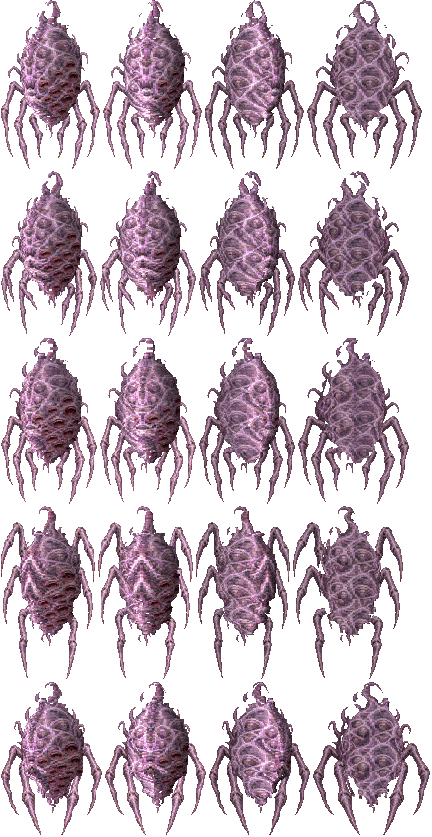
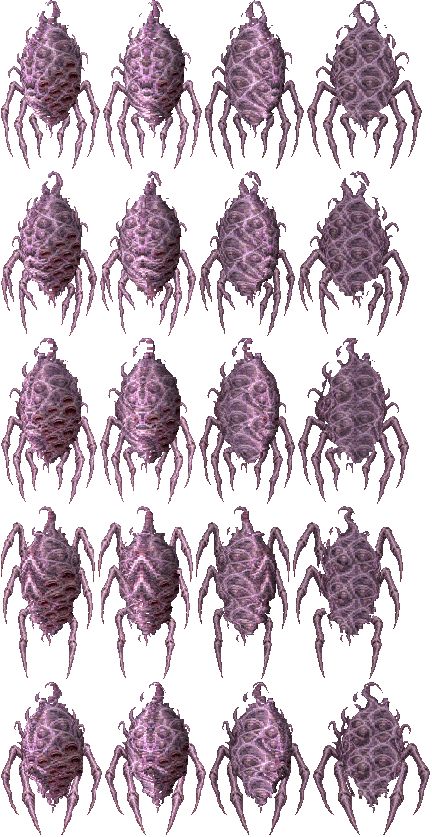
Phase 20 BEASTA: darker backs for five species; creatures.test accepts hand-built species (horn turns, hound head-on at octant 0, empty stand-in cache when every turning species is hand-built); own test measures area and chooser cost
Claude-Session: https://claude.ai/code/session_01TYjZA4Eb84PA9Yndxy475V

diff --git a/js/bestiary20a.js b/js/bestiary20a.js
@@ -34,7 +34,7 @@ const BESTIARY20A = (() => {
   // Cell table written by the bake script: species -> { f: file, v: version,
   // c: { 'view|pose': [x, y, w, h, hs, cx, dy] or 'sprite name' (an existing painting) } }
   // @@ATLAS-BEGIN (generated by tools/art/bestiary/bake20a.js; do not edit by hand)
-  const ATLAS = {"aegis":{"f":"aegis.png","v":"438ad28f","c":{"1|":[0,0,65,160,1,0.49231,0],"2|":[66,0,43,160,1,0.48837,0],"3|":[110,0,67,160,1,0.49254,0],"4|":[178,0,87,160,1,0.49425,0],"1|_w1":[0,161,64,161,1.0063,0.5,0],"2|_w1":[65,161,43,161,1.0063,0.48837,0],"3|_w1":[109,161,64,161,1.0063,0.5,0],"4|_w1":[174,161,85,161,1.0063,0.49412,0],"1|_w2":[0,323,65,162,1.0125,0.50769,0],"2|_w2":[66,323,43,162,1.0125,0.48837,0],"3|_w2":[110,323,65,162,1.0125,0.49231,0],"4|_w2":[176,323,84,162,1.0125,0.4881,0],"1|_a1":[0,486,72,153,0.9563,0.5,0],"2|_a1":[73,486,44,153,0.9563,0.5,0],"3|_a1":[118,486,72,153,0.9563,0.5,0],"4|_a1":[191,486,93,153,0.9563,0.49462,0],"1|_a2":[0,640,57,153,0.9563,0.49123,0],"2|_a2":[58,640,56,153,0.9563,0.375,0],"3|_a2":[115,640,89,153,0.9563,0.32584,0],"4|_a2":[205,640,78,153,0.9563,0.44872,0]}},"briarsprite":{"f":"briarsprite.png","v":"6cc57dea","c":{"0|":[0,0,72,72,1,0.5,0],"1|":[73,0,72,72,1,0.5,0],"2|":[146,0,72,72,1,0.5,0],"3|":[219,0,72,72,1,0.5,0],"4|":[292,0,72,72,1,0.5,0],"0|_w1":[0,73,72,72,1,0.5,0],"1|_w1":[73,73,72,72,1,0.5,0],"2|_w1":[146,73,72,72,1,0.5,0],"3|_w1":[219,73,72,72,1,0.5,0],"4|_w1":[292,73,72,72,1,0.5,0],"0|_w2":[0,146,72,72,1,0.5,0],"1|_w2":[73,146,72,72,1,0.5,0],"2|_w2":[146,146,72,72,1,0.5,0],"3|_w2":[219,146,72,72,1,0.5,0],"4|_w2":[292,146,72,72,1,0.5,0],"0|_a1":[0,219,72,72,1,0.5,0],"1|_a1":[73,219,72,72,1,0.5,0],"2|_a1":[146,219,72,72,1,0.5,0],"3|_a1":[219,219,72,72,1,0.5,0],"4|_a1":[292,219,72,72,1,0.5,0],"0|_a2":[0,292,72,72,1,0.5,0],"1|_a2":[73,292,72,72,1,0.5,0],"2|_a2":[146,292,72,72,1,0.5,0],"3|_a2":[219,292,72,72,1,0.5,0],"4|_a2":[292,292,72,72,1,0.5,0]}},"broodmother":{"f":"broodmother.png","v":"2e0ae28b","c":{"1|":[0,0,101,170,1,0.50495,0],"2|":[102,0,101,170,1,0.51485,0],"3|":[204,0,101,170,1,0.50495,0],"4|":[306,0,117,170,1,0.49573,0],"1|_w1":[0,171,98,166,0.9765,0.52041,0],"2|_w1":[99,171,98,166,0.9765,0.52041,0],"3|_w1":[198,171,98,166,0.9765,0.52041,0],"4|_w1":[297,171,113,166,0.9765,0.50442,0],"1|_w2":[0,338,98,167,0.9824,0.52041,0],"2|_w2":[99,338,98,167,0.9824,0.52041,0],"3|_w2":[198,338,98,167,0.9824,0.52041,0],"4|_w2":[297,338,113,167,0.9824,0.50442,0],"1|_a1":[0,506,96,175,1.0294,0.53125,0],"2|_a1":[97,506,97,175,1.0294,0.53608,0],"3|_a1":[195,506,96,175,1.0294,0.53125,0],"4|_a1":[292,506,112,175,1.0294,0.51786,0],"1|_a2":[0,682,103,154,0.9059,0.51456,0],"2|_a2":[104,682,103,154,0.9059,0.52427,0],"3|_a2":[208,682,103,154,0.9059,0.51456,0],"4|_a2":[312,682,119,154,0.9059,0.5042,0]}},"captain":{"f":"captain.png","v":"1a0d1cb0","c":{"1|":[0,0,75,165,1,0.42667,0],"2|":[76,0,55,165,1,0.38182,0],"3|":[132,0,66,165,1,0.42424,0],"4|":[199,0,84,165,1,0.47619,0],"1|_w1":[0,166,76,163,0.9879,0.43421,0],"2|_w1":[77,166,54,163,0.9879,0.48148,0],"3|_w1":[132,166,67,163,0.9879,0.44776,0],"4|_w1":[200,166,92,163,0.9879,0.53261,0],"1|_w2":[0,330,73,163,0.9879,0.41096,0],"2|_w2":[74,330,48,163,0.9879,0.41667,0],"3|_w2":[123,330,68,163,0.9879,0.45588,0],"4|_w2":[192,330,92,163,0.9879,0.54348,0],"1|_a1":[0,494,78,177,1.0727,0.46154,0],"2|_a1":[79,494,51,177,1.0727,0.41176,0],"3|_a1":[131,494,91,177,1.0727,0.38462,0],"4|_a1":[223,494,124,177,1.0727,0.37097,0],"1|_a2":[0,672,81,149,0.903,0.41975,0],"2|_a2":[82,672,67,149,0.903,0.29851,0],"3|_a2":[150,672,81,149,0.903,0.37037,0],"4|_a2":[232,672,103,149,0.903,0.45631,0]}},"deacon":{"f":"deacon.png","v":"9adb78ca","c":{"1|":[0,0,47,170,1,0.48936,0],"2|":[48,0,36,170,1,0.5,0],"3|":[85,0,49,170,1,0.4898,0],"4|":[135,0,61,170,1,0.5082,0],"1|_w1":[0,171,50,170,1,0.48,0],"2|_w1":[51,171,38,170,1,0.55263,0],"3|_w1":[90,171,50,170,1,0.52,0],"4|_w1":[141,171,62,170,1,0.53226,0],"1|_w2":[0,342,52,170,1,0.48077,0],"2|_w2":[53,342,38,170,1,0.44737,0],"3|_w2":[92,342,50,170,1,0.54,0],"4|_w2":[143,342,65,170,1,0.55385,0],"1|_a1":[0,513,48,187,1.1,0.5,0],"2|_a1":[49,513,36,187,1.1,0.5,0],"3|_a1":[86,513,48,187,1.1,0.5,0],"4|_a1":[135,513,61,187,1.1,0.5082,0],"1|_a2":[0,701,48,153,0.9,0.52083,0],"2|_a2":[49,701,45,153,0.9,0.42222,0],"3|_a2":[95,701,48,153,0.9,0.47917,0],"4|_a2":[144,701,61,153,0.9,0.4918,0]}},"dirge":{"f":"dirge.png","v":"f866b2da","c":{"1|":[0,0,51,150,1,0.4902,0],"2|":[52,0,31,150,1,0.48387,0],"3|":[84,0,51,150,1,0.5098,0],"4|":[136,0,68,150,1,0.5,0],"1|_w1":[0,151,59,146,0.9733,0.52542,-0.0267],"2|_w1":[60,151,33,146,0.9733,0.51515,-0.0267],"3|_w1":[94,151,59,146,0.9733,0.47458,-0.0267],"4|_w1":[154,151,79,146,0.9733,0.4557,-0.0267],"1|_w2":[0,298,60,149,0.9933,0.4,-0.0067],"2|_w2":[61,298,32,149,0.9933,0.46875,-0.0067],"3|_w2":[94,298,60,149,0.9933,0.6,-0.0067],"4|_w2":[155,298,80,149,0.9933,0.625,-0.0067],"1|_a1":[0,448,65,153,1.02,0.41538,0.02],"2|_a1":[66,448,34,153,1.02,0.47059,0.02],"3|_a1":[101,448,65,153,1.02,0.58462,0.02],"4|_a1":[167,448,88,153,1.02,0.59091,0.02],"1|_a2":[0,602,61,145,0.9667,0.52459,-0.0333],"2|_a2":[62,602,33,145,0.9667,0.51515,-0.0333],"3|_a2":[96,602,61,145,0.9667,0.47541,-0.0333],"4|_a2":[158,602,83,145,0.9667,0.48193,-0.0333]}},"drowned":{"f":"drowned.png","v":"fef2ef19","c":{"1|":[0,0,78,160,1,0.30769,0],"2|":[79,0,57,160,1,0.26316,0],"3|":[137,0,83,160,1,0.3494,0],"4|":[221,0,100,160,1,0.55,0],"1|_w1":[0,161,54,150,0.9375,0.51852,0],"2|_w1":[55,161,30,150,0.9375,0.5,0],"3|_w1":[86,161,54,150,0.9375,0.48148,0],"4|_w1":[141,161,74,150,0.9375,0.48649,0],"1|_w2":[0,312,54,148,0.925,0.53704,0],"2|_w2":[55,312,30,148,0.925,0.5,0],"3|_w2":[86,312,54,148,0.925,0.46296,0],"4|_w2":[141,312,72,148,0.925,0.45833,0],"1|_a1":[0,461,69,169,1.0562,0.43478,0],"2|_a1":[70,461,52,169,1.0562,0.40385,0],"3|_a1":[123,461,71,169,1.0562,0.4507,0],"4|_a1":[195,461,83,169,1.0562,0.51807,0],"1|_a2":[0,631,83,144,0.9,0.36145,0],"2|_a2":[84,631,59,144,0.9,0.25424,0],"3|_a2":[144,631,79,144,0.9,0.36709,0],"4|_a2":[224,631,92,144,0.9,0.55435,0]}},"fretcrawler":{"f":"fretcrawler.png","v":"dbf93f13","c":{"0|":[0,0,144,72,1,0.5,0],"1|":[145,0,144,72,1,0.5,0],"2|":[290,0,144,72,1,0.5,0],"3|":[435,0,144,72,1,0.5,0],"4|":[580,0,144,72,1,0.5,0],"0|_w1":[0,73,144,72,1,0.5,0],"1|_w1":[145,73,144,72,1,0.5,0],"2|_w1":[290,73,144,72,1,0.5,0],"3|_w1":[435,73,144,72,1,0.5,0],"4|_w1":[580,73,144,72,1,0.5,0],"0|_w2":[0,146,144,72,1,0.5,0],"1|_w2":[145,146,144,72,1,0.5,0],"2|_w2":[290,146,144,72,1,0.5,0],"3|_w2":[435,146,144,72,1,0.5,0],"4|_w2":[580,146,144,72,1,0.5,0],"0|_a1":[0,219,144,72,1,0.5,0],"1|_a1":[145,219,144,72,1,0.5,0],"2|_a1":[290,219,144,72,1,0.5,0],"3|_a1":[435,219,144,72,1,0.5,0],"4|_a1":[580,219,144,72,1,0.5,0],"0|_a2":[0,292,144,72,1,0.5,0],"1|_a2":[145,292,144,72,1,0.5,0],"2|_a2":[290,292,144,72,1,0.5,0],"3|_a2":[435,292,144,72,1,0.5,0],"4|_a2":[580,292,144,72,1,0.5,0]}},"golem":{"f":"golem.png","v":"4f0f733b","c":{"1|":[0,0,68,160,1,0.5,0],"2|":[69,0,40,160,1,0.5,0],"3|":[110,0,68,160,1,0.5,0],"4|":[179,0,87,160,1,0.50575,0],"1|_w1":[0,161,70,162,1.0125,0.5,0],"2|_w1":[71,161,40,162,1.0125,0.5,0],"3|_w1":[112,161,70,162,1.0125,0.5,0],"4|_w1":[183,161,89,162,1.0125,0.50562,0],"1|_w2":[0,324,69,163,1.0188,0.50725,0],"2|_w2":[70,324,43,163,1.0188,0.48837,0],"3|_w2":[114,324,69,163,1.0188,0.49275,0],"4|_w2":[184,324,88,163,1.0188,0.5,0],"1|_a1":[0,488,69,174,1.0875,0.56522,0],"2|_a1":[70,488,48,174,1.0875,0.58333,0],"3|_a1":[119,488,67,174,1.0875,0.44776,0],"4|_a1":[187,488,86,174,1.0875,0.44186,0],"1|_a2":[0,663,78,144,0.9,0.58974,0],"2|_a2":[79,663,75,144,0.9,0.46667,0],"3|_a2":[155,663,94,144,0.9,0.34043,0],"4|_a2":[250,663,97,144,0.9,0.42268,0]}},"horn":{"f":"horn.png","v":"3d97f8cd","c":{"1|":[0,0,51,120,1,0.43137,0],"2|":[52,0,44,120,1,0.5,0],"3|":[97,0,63,120,1,0.46032,0],"4|":[161,0,69,120,1,0.57971,0],"1|_w1":[0,121,59,118,0.9833,0.55932,0],"2|_w1":[60,121,44,118,0.9833,0.5,0],"3|_w1":[105,121,60,118,0.9833,0.43333,0],"4|_w1":[166,121,69,118,0.9833,0.50725,0],"1|_w2":[0,240,48,118,0.9833,0.45833,0],"2|_w2":[49,240,44,118,0.9833,0.5,0],"3|_w2":[94,240,48,118,0.9833,0.54167,0],"4|_w2":[143,240,63,118,0.9833,0.55556,0],"1|_a1":[0,359,58,120,1,0.41379,0],"2|_a1":[59,359,52,120,1,0.34615,0],"3|_a1":[112,359,50,120,1,0.56,0],"4|_a1":[163,359,66,120,1,0.56061,0],"1|_a2":[0,480,58,119,0.9917,0.41379,0],"2|_a2":[59,480,52,119,0.9917,0.34615,0],"3|_a2":[112,480,47,119,0.9917,0.53191,0],"4|_a2":[160,480,62,119,0.9917,0.53226,0]}},"hound":{"f":"hound.png","v":"000d9fbc","c":{"1|":[0,0,158,160,1,0.5443,0],"2|":[159,0,209,160,1,0.54067,0],"3|":[369,0,158,160,1,0.5443,0],"4|":[528,0,104,160,1,0.5,0],"1|_w1":[0,161,162,144,0.9,0.53704,0],"2|_w1":[163,161,210,144,0.9,0.5381,0],"3|_w1":[374,161,162,144,0.9,0.53704,0],"4|_w1":[537,161,104,144,0.9,0.5,0],"1|_w2":[0,306,130,153,0.9563,0.55385,0],"2|_w2":[131,306,177,153,0.9563,0.54237,0],"3|_w2":[309,306,130,153,0.9563,0.55385,0],"4|_w2":[440,306,104,153,0.9563,0.49997,0],"1|_a1":[0,460,139,161,1.0063,0.56115,0],"2|_a1":[140,460,178,161,1.0063,0.5618,0],"3|_a1":[319,460,139,161,1.0063,0.56115,0],"4|_a1":[459,460,104,161,1.0063,0.49998,0],"1|_a2":[0,622,133,198,1.2375,0.54135,0],"2|_a2":[134,622,170,198,1.2375,0.56471,0],"3|_a2":[305,622,132,198,1.2375,0.54545,0],"4|_a2":[438,622,104,198,1.2375,0.5,0],"0|":"hound_a2","0|_w1":"hound_a2","0|_w2":"hound_a2","0|_a1":"hound_a2","0|_a2":"hound_a2"}},"hushwarden":{"f":"hushwarden.png","v":"5ed622dd","c":{"1|":[0,0,64,165,1,0.42188,0],"2|":[65,0,46,165,1,0.43478,0],"3|":[112,0,54,165,1,0.5,0],"4|":[167,0,72,165,1,0.52778,0],"1|_w1":[0,166,61,166,1.0061,0.42623,0],"2|_w1":[62,166,50,166,1.0061,0.48,0],"3|_w1":[113,166,56,166,1.0061,0.53571,0],"4|_w1":[170,166,73,166,1.0061,0.53425,0],"1|_w2":[0,333,60,166,1.0061,0.43333,0],"2|_w2":[61,333,44,166,1.0061,0.43182,0],"3|_w2":[106,333,54,166,1.0061,0.51852,0],"4|_w2":[161,333,71,166,1.0061,0.52113,0],"1|_a1":[0,500,63,200,1.2121,0.49206,0],"2|_a1":[64,500,41,200,1.2121,0.4878,0],"3|_a1":[106,500,63,200,1.2121,0.50794,0],"4|_a1":[170,500,81,200,1.2121,0.50617,0],"1|_a2":[0,701,64,148,0.897,0.48438,0],"2|_a2":[65,701,55,148,0.897,0.38182,0],"3|_a2":[121,701,64,148,0.897,0.51563,0],"4|_a2":[186,701,87,148,0.897,0.51724,0]}}};
+  const ATLAS = {"aegis":{"f":"aegis.png","v":"438ad28f","c":{"1|":[0,0,65,160,1,0.49231,0],"2|":[66,0,43,160,1,0.48837,0],"3|":[110,0,67,160,1,0.49254,0],"4|":[178,0,87,160,1,0.49425,0],"1|_w1":[0,161,64,161,1.0063,0.5,0],"2|_w1":[65,161,43,161,1.0063,0.48837,0],"3|_w1":[109,161,64,161,1.0063,0.5,0],"4|_w1":[174,161,85,161,1.0063,0.49412,0],"1|_w2":[0,323,65,162,1.0125,0.50769,0],"2|_w2":[66,323,43,162,1.0125,0.48837,0],"3|_w2":[110,323,65,162,1.0125,0.49231,0],"4|_w2":[176,323,84,162,1.0125,0.4881,0],"1|_a1":[0,486,72,153,0.9563,0.5,0],"2|_a1":[73,486,44,153,0.9563,0.5,0],"3|_a1":[118,486,72,153,0.9563,0.5,0],"4|_a1":[191,486,93,153,0.9563,0.49462,0],"1|_a2":[0,640,57,153,0.9563,0.49123,0],"2|_a2":[58,640,56,153,0.9563,0.375,0],"3|_a2":[115,640,89,153,0.9563,0.32584,0],"4|_a2":[205,640,78,153,0.9563,0.44872,0]}},"briarsprite":{"f":"briarsprite.png","v":"b514438e","c":{"0|":[0,0,72,72,1,0.5,0],"1|":[73,0,72,72,1,0.5,0],"2|":[146,0,72,72,1,0.5,0],"3|":[219,0,72,72,1,0.5,0],"4|":[292,0,72,72,1,0.5,0],"0|_w1":[0,73,72,72,1,0.5,0],"1|_w1":[73,73,72,72,1,0.5,0],"2|_w1":[146,73,72,72,1,0.5,0],"3|_w1":[219,73,72,72,1,0.5,0],"4|_w1":[292,73,72,72,1,0.5,0],"0|_w2":[0,146,72,72,1,0.5,0],"1|_w2":[73,146,72,72,1,0.5,0],"2|_w2":[146,146,72,72,1,0.5,0],"3|_w2":[219,146,72,72,1,0.5,0],"4|_w2":[292,146,72,72,1,0.5,0],"0|_a1":[0,219,72,72,1,0.5,0],"1|_a1":[73,219,72,72,1,0.5,0],"2|_a1":[146,219,72,72,1,0.5,0],"3|_a1":[219,219,72,72,1,0.5,0],"4|_a1":[292,219,72,72,1,0.5,0],"0|_a2":[0,292,72,72,1,0.5,0],"1|_a2":[73,292,72,72,1,0.5,0],"2|_a2":[146,292,72,72,1,0.5,0],"3|_a2":[219,292,72,72,1,0.5,0],"4|_a2":[292,292,72,72,1,0.5,0]}},"broodmother":{"f":"broodmother.png","v":"08f64d7f","c":{"1|":[0,0,101,170,1,0.50495,0],"2|":[102,0,101,170,1,0.51485,0],"3|":[204,0,101,170,1,0.50495,0],"4|":[306,0,117,170,1,0.49573,0],"1|_w1":[0,171,98,166,0.9765,0.52041,0],"2|_w1":[99,171,98,166,0.9765,0.52041,0],"3|_w1":[198,171,98,166,0.9765,0.52041,0],"4|_w1":[297,171,113,166,0.9765,0.50442,0],"1|_w2":[0,338,98,167,0.9824,0.52041,0],"2|_w2":[99,338,98,167,0.9824,0.52041,0],"3|_w2":[198,338,98,167,0.9824,0.52041,0],"4|_w2":[297,338,113,167,0.9824,0.50442,0],"1|_a1":[0,506,96,175,1.0294,0.53125,0],"2|_a1":[97,506,97,175,1.0294,0.53608,0],"3|_a1":[195,506,96,175,1.0294,0.53125,0],"4|_a1":[292,506,112,175,1.0294,0.51786,0],"1|_a2":[0,682,103,154,0.9059,0.51456,0],"2|_a2":[104,682,103,154,0.9059,0.52427,0],"3|_a2":[208,682,103,154,0.9059,0.51456,0],"4|_a2":[312,682,119,154,0.9059,0.5042,0]}},"captain":{"f":"captain.png","v":"1a0d1cb0","c":{"1|":[0,0,75,165,1,0.42667,0],"2|":[76,0,55,165,1,0.38182,0],"3|":[132,0,66,165,1,0.42424,0],"4|":[199,0,84,165,1,0.47619,0],"1|_w1":[0,166,76,163,0.9879,0.43421,0],"2|_w1":[77,166,54,163,0.9879,0.48148,0],"3|_w1":[132,166,67,163,0.9879,0.44776,0],"4|_w1":[200,166,92,163,0.9879,0.53261,0],"1|_w2":[0,330,73,163,0.9879,0.41096,0],"2|_w2":[74,330,48,163,0.9879,0.41667,0],"3|_w2":[123,330,68,163,0.9879,0.45588,0],"4|_w2":[192,330,92,163,0.9879,0.54348,0],"1|_a1":[0,494,78,177,1.0727,0.46154,0],"2|_a1":[79,494,51,177,1.0727,0.41176,0],"3|_a1":[131,494,91,177,1.0727,0.38462,0],"4|_a1":[223,494,124,177,1.0727,0.37097,0],"1|_a2":[0,672,81,149,0.903,0.41975,0],"2|_a2":[82,672,67,149,0.903,0.29851,0],"3|_a2":[150,672,81,149,0.903,0.37037,0],"4|_a2":[232,672,103,149,0.903,0.45631,0]}},"deacon":{"f":"deacon.png","v":"54be0af4","c":{"1|":[0,0,47,170,1,0.48936,0],"2|":[48,0,36,170,1,0.5,0],"3|":[85,0,49,170,1,0.4898,0],"4|":[135,0,61,170,1,0.5082,0],"1|_w1":[0,171,50,170,1,0.48,0],"2|_w1":[51,171,38,170,1,0.55263,0],"3|_w1":[90,171,50,170,1,0.52,0],"4|_w1":[141,171,62,170,1,0.53226,0],"1|_w2":[0,342,52,170,1,0.48077,0],"2|_w2":[53,342,38,170,1,0.44737,0],"3|_w2":[92,342,50,170,1,0.54,0],"4|_w2":[143,342,65,170,1,0.55385,0],"1|_a1":[0,513,48,187,1.1,0.5,0],"2|_a1":[49,513,36,187,1.1,0.5,0],"3|_a1":[86,513,48,187,1.1,0.5,0],"4|_a1":[135,513,61,187,1.1,0.5082,0],"1|_a2":[0,701,48,153,0.9,0.52083,0],"2|_a2":[49,701,45,153,0.9,0.42222,0],"3|_a2":[95,701,48,153,0.9,0.47917,0],"4|_a2":[144,701,61,153,0.9,0.4918,0]}},"dirge":{"f":"dirge.png","v":"999bcbb9","c":{"1|":[0,0,51,150,1,0.4902,0],"2|":[52,0,31,150,1,0.48387,0],"3|":[84,0,51,150,1,0.5098,0],"4|":[136,0,68,150,1,0.5,0],"1|_w1":[0,151,59,146,0.9733,0.52542,-0.0267],"2|_w1":[60,151,33,146,0.9733,0.51515,-0.0267],"3|_w1":[94,151,59,146,0.9733,0.47458,-0.0267],"4|_w1":[154,151,79,146,0.9733,0.4557,-0.0267],"1|_w2":[0,298,60,149,0.9933,0.4,-0.0067],"2|_w2":[61,298,32,149,0.9933,0.46875,-0.0067],"3|_w2":[94,298,60,149,0.9933,0.6,-0.0067],"4|_w2":[155,298,80,149,0.9933,0.625,-0.0067],"1|_a1":[0,448,65,153,1.02,0.41538,0.02],"2|_a1":[66,448,34,153,1.02,0.47059,0.02],"3|_a1":[101,448,65,153,1.02,0.58462,0.02],"4|_a1":[167,448,88,153,1.02,0.59091,0.02],"1|_a2":[0,602,61,145,0.9667,0.52459,-0.0333],"2|_a2":[62,602,33,145,0.9667,0.51515,-0.0333],"3|_a2":[96,602,61,145,0.9667,0.47541,-0.0333],"4|_a2":[158,602,83,145,0.9667,0.48193,-0.0333]}},"drowned":{"f":"drowned.png","v":"fef2ef19","c":{"1|":[0,0,78,160,1,0.30769,0],"2|":[79,0,57,160,1,0.26316,0],"3|":[137,0,83,160,1,0.3494,0],"4|":[221,0,100,160,1,0.55,0],"1|_w1":[0,161,54,150,0.9375,0.51852,0],"2|_w1":[55,161,30,150,0.9375,0.5,0],"3|_w1":[86,161,54,150,0.9375,0.48148,0],"4|_w1":[141,161,74,150,0.9375,0.48649,0],"1|_w2":[0,312,54,148,0.925,0.53704,0],"2|_w2":[55,312,30,148,0.925,0.5,0],"3|_w2":[86,312,54,148,0.925,0.46296,0],"4|_w2":[141,312,72,148,0.925,0.45833,0],"1|_a1":[0,461,69,169,1.0562,0.43478,0],"2|_a1":[70,461,52,169,1.0562,0.40385,0],"3|_a1":[123,461,71,169,1.0562,0.4507,0],"4|_a1":[195,461,83,169,1.0562,0.51807,0],"1|_a2":[0,631,83,144,0.9,0.36145,0],"2|_a2":[84,631,59,144,0.9,0.25424,0],"3|_a2":[144,631,79,144,0.9,0.36709,0],"4|_a2":[224,631,92,144,0.9,0.55435,0]}},"fretcrawler":{"f":"fretcrawler.png","v":"dbf93f13","c":{"0|":[0,0,144,72,1,0.5,0],"1|":[145,0,144,72,1,0.5,0],"2|":[290,0,144,72,1,0.5,0],"3|":[435,0,144,72,1,0.5,0],"4|":[580,0,144,72,1,0.5,0],"0|_w1":[0,73,144,72,1,0.5,0],"1|_w1":[145,73,144,72,1,0.5,0],"2|_w1":[290,73,144,72,1,0.5,0],"3|_w1":[435,73,144,72,1,0.5,0],"4|_w1":[580,73,144,72,1,0.5,0],"0|_w2":[0,146,144,72,1,0.5,0],"1|_w2":[145,146,144,72,1,0.5,0],"2|_w2":[290,146,144,72,1,0.5,0],"3|_w2":[435,146,144,72,1,0.5,0],"4|_w2":[580,146,144,72,1,0.5,0],"0|_a1":[0,219,144,72,1,0.5,0],"1|_a1":[145,219,144,72,1,0.5,0],"2|_a1":[290,219,144,72,1,0.5,0],"3|_a1":[435,219,144,72,1,0.5,0],"4|_a1":[580,219,144,72,1,0.5,0],"0|_a2":[0,292,144,72,1,0.5,0],"1|_a2":[145,292,144,72,1,0.5,0],"2|_a2":[290,292,144,72,1,0.5,0],"3|_a2":[435,292,144,72,1,0.5,0],"4|_a2":[580,292,144,72,1,0.5,0]}},"golem":{"f":"golem.png","v":"4f0f733b","c":{"1|":[0,0,68,160,1,0.5,0],"2|":[69,0,40,160,1,0.5,0],"3|":[110,0,68,160,1,0.5,0],"4|":[179,0,87,160,1,0.50575,0],"1|_w1":[0,161,70,162,1.0125,0.5,0],"2|_w1":[71,161,40,162,1.0125,0.5,0],"3|_w1":[112,161,70,162,1.0125,0.5,0],"4|_w1":[183,161,89,162,1.0125,0.50562,0],"1|_w2":[0,324,69,163,1.0188,0.50725,0],"2|_w2":[70,324,43,163,1.0188,0.48837,0],"3|_w2":[114,324,69,163,1.0188,0.49275,0],"4|_w2":[184,324,88,163,1.0188,0.5,0],"1|_a1":[0,488,69,174,1.0875,0.56522,0],"2|_a1":[70,488,48,174,1.0875,0.58333,0],"3|_a1":[119,488,67,174,1.0875,0.44776,0],"4|_a1":[187,488,86,174,1.0875,0.44186,0],"1|_a2":[0,663,78,144,0.9,0.58974,0],"2|_a2":[79,663,75,144,0.9,0.46667,0],"3|_a2":[155,663,94,144,0.9,0.34043,0],"4|_a2":[250,663,97,144,0.9,0.42268,0]}},"horn":{"f":"horn.png","v":"3d97f8cd","c":{"1|":[0,0,51,120,1,0.43137,0],"2|":[52,0,44,120,1,0.5,0],"3|":[97,0,63,120,1,0.46032,0],"4|":[161,0,69,120,1,0.57971,0],"1|_w1":[0,121,59,118,0.9833,0.55932,0],"2|_w1":[60,121,44,118,0.9833,0.5,0],"3|_w1":[105,121,60,118,0.9833,0.43333,0],"4|_w1":[166,121,69,118,0.9833,0.50725,0],"1|_w2":[0,240,48,118,0.9833,0.45833,0],"2|_w2":[49,240,44,118,0.9833,0.5,0],"3|_w2":[94,240,48,118,0.9833,0.54167,0],"4|_w2":[143,240,63,118,0.9833,0.55556,0],"1|_a1":[0,359,58,120,1,0.41379,0],"2|_a1":[59,359,52,120,1,0.34615,0],"3|_a1":[112,359,50,120,1,0.56,0],"4|_a1":[163,359,66,120,1,0.56061,0],"1|_a2":[0,480,58,119,0.9917,0.41379,0],"2|_a2":[59,480,52,119,0.9917,0.34615,0],"3|_a2":[112,480,47,119,0.9917,0.53191,0],"4|_a2":[160,480,62,119,0.9917,0.53226,0]}},"hound":{"f":"hound.png","v":"5f6a7692","c":{"1|":[0,0,158,160,1,0.5443,0],"2|":[159,0,209,160,1,0.54067,0],"3|":[369,0,158,160,1,0.5443,0],"4|":[528,0,104,160,1,0.5,0],"1|_w1":[0,161,162,144,0.9,0.53704,0],"2|_w1":[163,161,210,144,0.9,0.5381,0],"3|_w1":[374,161,162,144,0.9,0.53704,0],"4|_w1":[537,161,104,144,0.9,0.5,0],"1|_w2":[0,306,130,153,0.9563,0.55385,0],"2|_w2":[131,306,177,153,0.9563,0.54237,0],"3|_w2":[309,306,130,153,0.9563,0.55385,0],"4|_w2":[440,306,104,153,0.9563,0.49997,0],"1|_a1":[0,460,139,161,1.0063,0.56115,0],"2|_a1":[140,460,178,161,1.0063,0.5618,0],"3|_a1":[319,460,139,161,1.0063,0.56115,0],"4|_a1":[459,460,104,161,1.0063,0.49998,0],"1|_a2":[0,622,133,198,1.2375,0.54135,0],"2|_a2":[134,622,170,198,1.2375,0.56471,0],"3|_a2":[305,622,132,198,1.2375,0.54545,0],"4|_a2":[438,622,104,198,1.2375,0.5,0],"0|":"hound_a2","0|_w1":"hound_a2","0|_w2":"hound_a2","0|_a1":"hound_a2","0|_a2":"hound_a2"}},"hushwarden":{"f":"hushwarden.png","v":"5ed622dd","c":{"1|":[0,0,64,165,1,0.42188,0],"2|":[65,0,46,165,1,0.43478,0],"3|":[112,0,54,165,1,0.5,0],"4|":[167,0,72,165,1,0.52778,0],"1|_w1":[0,166,61,166,1.0061,0.42623,0],"2|_w1":[62,166,50,166,1.0061,0.48,0],"3|_w1":[113,166,56,166,1.0061,0.53571,0],"4|_w1":[170,166,73,166,1.0061,0.53425,0],"1|_w2":[0,333,60,166,1.0061,0.43333,0],"2|_w2":[61,333,44,166,1.0061,0.43182,0],"3|_w2":[106,333,54,166,1.0061,0.51852,0],"4|_w2":[161,333,71,166,1.0061,0.52113,0],"1|_a1":[0,500,63,200,1.2121,0.49206,0],"2|_a1":[64,500,41,200,1.2121,0.4878,0],"3|_a1":[106,500,63,200,1.2121,0.50794,0],"4|_a1":[170,500,81,200,1.2121,0.50617,0],"1|_a2":[0,701,64,148,0.897,0.48438,0],"2|_a2":[65,701,55,148,0.897,0.38182,0],"3|_a2":[121,701,64,148,0.897,0.51563,0],"4|_a2":[186,701,87,148,0.897,0.51724,0]}}};
   // @@ATLAS-END
   const atl = {};                              // species -> { data, w, h, state }
   const cache = new Map();                     // 'name|view|pose' -> { sprite, used, bytes }

diff --git a/test/bestiary20a.test.js b/test/bestiary20a.test.js
@@ -160,13 +160,24 @@ const SIDE_ON = ['briarsprite', 'fretcrawler', 'hound'];
       GFX.p20_beastA = false; for (let i = 0; i < 10; i++) Engine.render(G.ents, G.tod); GFX.p20_beastA = true;
       let on = 1e9, off = 1e9;
       for (let r = 0; r < 12; r++) { on = Math.min(on, burst()); GFX.p20_beastA = false; off = Math.min(off, burst()); GFX.p20_beastA = true; }
-      return { on: +on.toFixed(2), off: +off.toFixed(2), n: added.length };
+      // how much screen the creatures cover each way (a head-on hound is a bigger shape than its flank seen end-on)
+      const area = () => { Engine.render(G.ents, G.tod); let a = 0; for (const e of added) if (e._screen) a += (e._screen.x1 - e._screen.x0) * (e._screen.y1 - e._screen.y0); return a; };
+      const aOn = area(); GFX.p20_beastA = false; const aOff = area(); GFX.p20_beastA = true;
+      // and the chooser's own cost per call
+      let t0 = performance.now(); for (let i = 0; i < 2000; i++) for (const e of added) animDirectionalSprite(e); const chooseOn = (performance.now() - t0) / 2000 / added.length * 1000;
+      GFX.p20_beastA = false; t0 = performance.now(); for (let i = 0; i < 2000; i++) for (const e of added) animDirectionalSprite(e); const chooseOff = (performance.now() - t0) / 2000 / added.length * 1000; GFX.p20_beastA = true;
+      return { on: +on.toFixed(2), off: +off.toFixed(2), n: added.length, areaRatio: +(aOn / aOff).toFixed(3), chooseUs: [+chooseOn.toFixed(2), +chooseOff.toFixed(2)] };
     }, MINE);
-    assert.ok(perf.on - perf.off < Math.max(1.0, perf.off * 0.08), 'frame cost unchanged (' + JSON.stringify(perf) + ')');
+    // no work per frame beyond looking a view up: the render may only cost what the drawn area costs
+    assert.ok(perf.chooseUs[0] - perf.chooseUs[1] < 5, 'the sprite chooser adds microseconds at most (' + JSON.stringify(perf.chooseUs) + ')');
+    assert.ok(perf.areaRatio < 1.15, 'the views cover about the same screen as the stand-ins (' + perf.areaRatio + ')');
+    // wall-clock on a shared build machine swings by several ms between bursts (measured per species it goes
+    // negative), so this bound only catches a real regression; the two checks above are the precise ones
+    assert.ok(perf.on <= perf.off * 1.3 + 1, 'frame cost in line with the stand-ins (' + JSON.stringify(perf) + ')');
     await page.addStyleTag({ content: '#msgs { display: none !important; }' });
     await page.waitForTimeout(800);
     await page.locator('#view').screenshot({ path: path.join(SHOTS, 'bestiary20a-scene.png') });
-    console.log('PASS scene: 12 species in play, frame ' + perf.on + ' ms with the views, ' + perf.off + ' ms with stand-ins');
+    console.log('PASS scene: 12 species in play, frame ' + perf.on + ' ms with the views, ' + perf.off + ' ms with stand-ins (area ratio ' + perf.areaRatio + ', chooser ' + perf.chooseUs.join('/') + ' us)');
     assert.deepEqual(errors, [], 'no page errors');
     console.log('PASS no page errors; screenshot ' + path.join(SHOTS, 'bestiary20a-scene.png'));
   } finally { await browser.close(); }

diff --git a/test/creatures.test.js b/test/creatures.test.js
@@ -99,7 +99,9 @@ const save = (name, dataUrl) => fs.writeFileSync(path.join(SHOTS, name), Buffer.
             check(sp && sp.w > 0 && sp.h > 0 && sp.data.length === sp.w * sp.h && sp.data.some(p => p >>> 24), name + pose + ' view ' + v + ' exists');
           }
         }
-        if (s.symmetric) {
+        // Phase 20: a hand-built species (s.hand: js/bestiary20a.js / bestiary20b.js) has real views even where
+        // directions.js would have kept a single drawing (the listening-horn turns its bell)
+        if (s.symmetric && !s.hand) {
           for (let v = 1; v <= 4; v++) check(DIRECTIONS.view(name, v, '') === front, name + ' keeps its single drawing in view ' + v);
           const idle = hash(front), w1 = hash(Engine.sprites[name + '_w1']), a2 = hash(Engine.sprites[name + '_a2']);
           check(idle !== w1 && idle !== a2, name + ' action frames differ from idle');
@@ -134,7 +136,9 @@ const save = (name, dataUrl) => fs.writeFileSync(path.join(SHOTS, name), Buffer.
       const at = (e, octant) => { Engine.cam.x = Math.cos(octant * Math.PI / 4) * 3; Engine.cam.y = Math.sin(octant * Math.PI / 4) * 3; return animDirectionalSprite(e); };
       for (const name of ['golem', 'hound', 'weaver', 'wearer', 'drowned']) {
         const e = { kind: 'enemy', sprite: name, x: 0, y: 0, facing: 0 };
-        const seen = at(e, 0); check(seen.sprite === Engine.sprites[name] && seen.flip === false, name + ' faces front at octant 0');
+        // Phase 20: creatures painted side-on (the hound) show a head-on drawing at octant 0
+        const front0 = typeof BESTIARY20A !== 'undefined' && BESTIARY20A.front0(name) ? BESTIARY20A.view(name, 0, '') : Engine.sprites[name];
+        const seen = at(e, 0); check(seen.sprite === front0 && seen.flip === false, name + ' faces front at octant 0');
         const views = [seen.sprite];
         for (let o = 1; o <= 3; o++) {
           const a = at(e, o), b = at(e, 8 - o);
@@ -178,7 +182,9 @@ const save = (name, dataUrl) => fs.writeFileSync(path.join(SHOTS, name), Buffer.
       }
       const used = DIRECTIONS.budgetBytes();
       check(requested > DIRECTIONS.cap, 'the probe asked for more than the budget (' + requested + ')');
-      check(used > 0 && used <= DIRECTIONS.cap && DIRECTIONS.cap <= 4 * 1024 * 1024, 'cache stays inside 4 MB (' + used + ' bytes)');
+      // Phase 20: when every species that turns is hand-built, the stand-in cache is simply never used
+      const allHand = species.every(s => s.hand || s.symmetric || s.pilot || (typeof BEASTB !== 'undefined' && BEASTB.SPECIES[s.sprite]));
+      check((used > 0 || allHand) && used <= DIRECTIONS.cap && DIRECTIONS.cap <= 4 * 1024 * 1024, 'cache stays inside 4 MB (' + used + ' bytes)');
       check(hash(DIRECTIONS.view('golem', 2, '')) === probeHash, 'an evicted view regenerates identically');
       out.cacheBytes = used; out.requestedBytes = requested;
       // a repeated request is a cache hit: the very same object

diff --git a/tools/art/bestiary/recipes20a.js b/tools/art/bestiary/recipes20a.js
@@ -880,7 +880,7 @@ BEAST20A.SPECIES.deacon = (() => {
     back(P, S) {
       P.tex(...ROBE, B.mir(P.w, S.stole), { mul: 0.95 });
       B.hoodOver(P, N, S.face, B.tones(N, [[25, 18], [30, 14], [40, 25], [33, 12], [43, 34], [28, 16], [36, 15]]), B.tones(N, [[22, 30]], 0.6)[0]);
-      P.light(() => 0.82);
+      P.light(() => 0.76);
     },
   });
 })();
@@ -1074,7 +1074,7 @@ BEAST20A.SPECIES.dirge = (() => {
       const c = B.mir(P.w, S.core); P.heal(c, -13, 0); P.heal(c, 13, 0);
       const r = B.mir(P.w, S.ring); P.heal(r, 0, 30);
       P.lightIn(r, (x, y) => 1.0 - 0.35 * (y - r[0][1]) / 26);
-      P.light(() => 0.82);
+      P.light(() => 0.76);
     },
   });
 })();
@@ -1176,7 +1176,7 @@ BEAST20A.SPECIES.broodmother = (() => {
       // no mouths behind: bare veined sac, carried down from the shoulders of it
       const m = B.mir(P.w, S.pods); P.heal(m, 0, -36);
       P.heal([[m[0][0] + 2, m[0][1] + 34], [m[1][0] - 2, m[0][1] + 34], [m[2][0], m[2][1]], [m[3][0], m[3][1] + 2], [m[4][0], m[4][1] + 2], [m[5][0], m[5][1]]], 0, -34);
-      P.light(() => 0.84);
+      P.light(() => 0.78);
     },
     props(S) { return [{ canvas: S._legs, rx: 0, y: 0, ax: S.A, X: 0, Z: -2, minK: 0.86 }]; },
   });
@@ -1223,7 +1223,7 @@ BEAST20A.SPECIES.hound = (() => {
       // the ridge of bristles along the spine, seen end-on
       P.cut(N, 92, 14, 40, 22, A - 20, 22, { mul: 1.0 });
       P.cut(N, 0, 40, 56, 92, A, 40, { rot: -0.47, px: 52, py: 50 });
-    }, { cx: A * k / W, light: () => 0.86 });
+    }, { cx: A * k / W, light: () => 0.8 });
   }
   const recipe = (v, p) => {
     if (v === 0) return Engine.sprites[N + '_a2'];          // head-on it is the painting of the lunge
@@ -1301,7 +1301,7 @@ BEAST20A.SPECIES.briarsprite = (() => {
     const sp = Engine.sprites[N + p] || Engine.sprites[N];
     const P = B.painter(sp.w, sp.h); P.g.imageSmoothingEnabled = false;
     if (v === 2) P.g.drawImage(B.srcCanvas(N + p), 0, 0); else paint(P.g, p, ANG[v]);
-    if (v >= 3) P.light(() => 0.86);
+    if (v >= 3) P.light(() => (v === 4 ? 0.78 : 0.86));
     return B.finish(P, sp, 1, 0.5);
   };
   recipe.front0 = true;

diff --git a/sw.js b/sw.js
@@ -18,7 +18,7 @@
 //
 // <precache:begin>
 // Generated by tools/pwa/precache.js from index.html and the asset folders. Do not edit by hand; run the tool.
-const BUILD = "070edda0d272";
+const BUILD = "8b3450583678";
 const MEDIA_BUILD = "88e51a8a41e3";
 const MEDIA_BYTES = 54495791;
 const CORE = [
